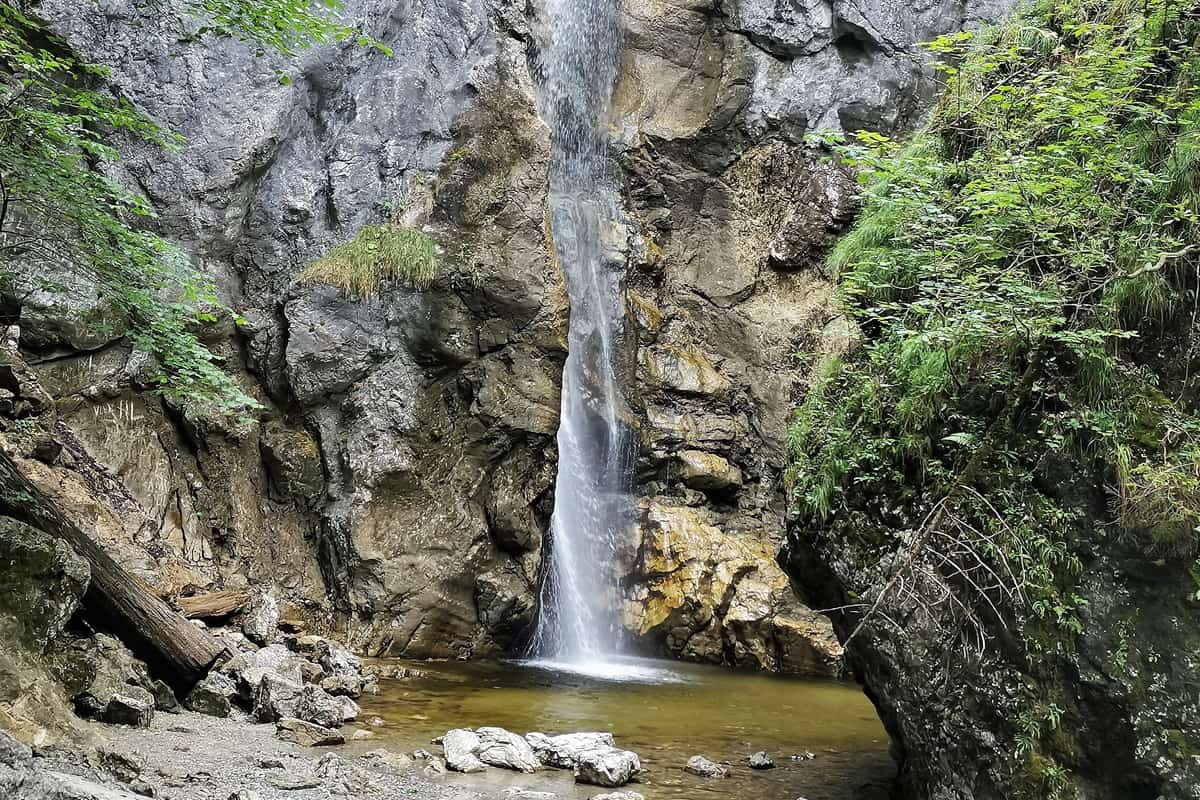
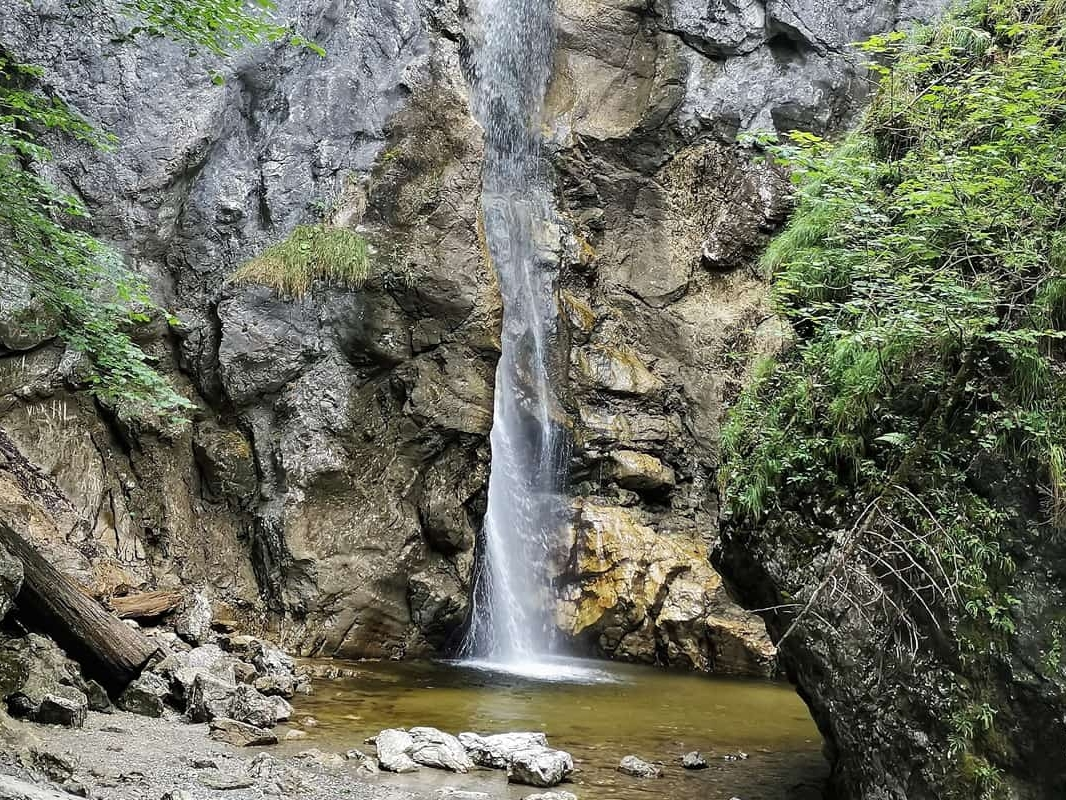
Added Herzogstand, Jenner, and Nebelhorn hikes.

diff --git a/src/routes/projects/data-viz/hikes/[slug]/+page.svelte b/src/routes/projects/data-viz/hikes/[slug]/+page.svelte
@@ -9,7 +9,7 @@
 	import * as THREE from 'three';
 	import { OrbitControls } from 'three/addons/controls/OrbitControls.js';
 	import { providerFile, providerFolder, providers } from '$lib/data/map-providers';
-	import { type MapProvider, type TilesData } from '$lib/data/map-info';
+	import { type Feature, getMapFeatures, type MapProvider, type TilesData } from '$lib/data/map-info';
 	import { getDistance, getTime } from './build-statistics';
 
 	export let data: PageData;
@@ -18,8 +18,9 @@
 	const scale3dVertical = 0.4;
 
 	const center = data.projection([data.origin.lon, data.origin.lat])!;
-	const attrMapbox = data.map.features.some((x) => x.type === 'Tiles' && (x.data as TilesData)!.provider!.includes('mapbox'));
-	const attrOSM = data.map.features.some((x) => x.type === 'Tiles' && (x.data as TilesData)!.provider!.includes('osm')) && !attrMapbox;
+	const features = getMapFeatures(data.map) as Feature[];
+	const attrMapbox = features.some((x) => x.type === 'Tiles' && (x.data as TilesData)!.provider!.includes('mapbox'));
+	const attrOSM = features.some((x) => x.type === 'Tiles' && (x.data as TilesData)!.provider!.includes('osm')) && !attrMapbox;
 
 	let renderer : THREE.WebGLRenderer;
 	let camera : THREE.PerspectiveCamera;
@@ -255,7 +256,7 @@
 	<div class="flex flex-row flex-wrap gap-4">
 		<article class="flex-1 w-full p-4 bg-gray-50 rounded-lg dark:bg-gray-800 min-w-40">
 			<div class="flex flex-row sm:flex-col flex-wrap gap-4">
-				<Img src={data.map.image} alt="Original map photo" class="w-full h-auto rounded-lg object-center object-cover" />
+				<Img src={data.map.image} alt="Original map photo" class="w-full aspect-crt rounded-lg object-center object-cover" />
 				<div class="prose dark:prose-invert prose-a:text-primary-600 dark:prose-a:text-primary-500">
 					<p>{@html data.map.description}</p>
 					<ul>

diff --git a/src/routes/projects/data-viz/+page.svelte b/src/routes/projects/data-viz/+page.svelte
@@ -10,7 +10,7 @@
 	<Heading tag="h2" id="maps">Hikes</Heading>
 	<div class="w-fit mx-auto">
 		<div class="grid grid-cols-1 sm:grid-cols-2 lg:grid-cols-3 xl:grid-cols-4 gap-4 mt-8">
-			<Card href="/projects/data-viz/hikes/all" img={maps[0].image}>
+			<Card href="/projects/data-viz/hikes/all" img="/images/projects/data-viz/hikes/all.jpg">
 				<Heading tag="h3" class="break-words">🚧 All Hikes</Heading>
 			</Card>
 			{#each maps as map}
